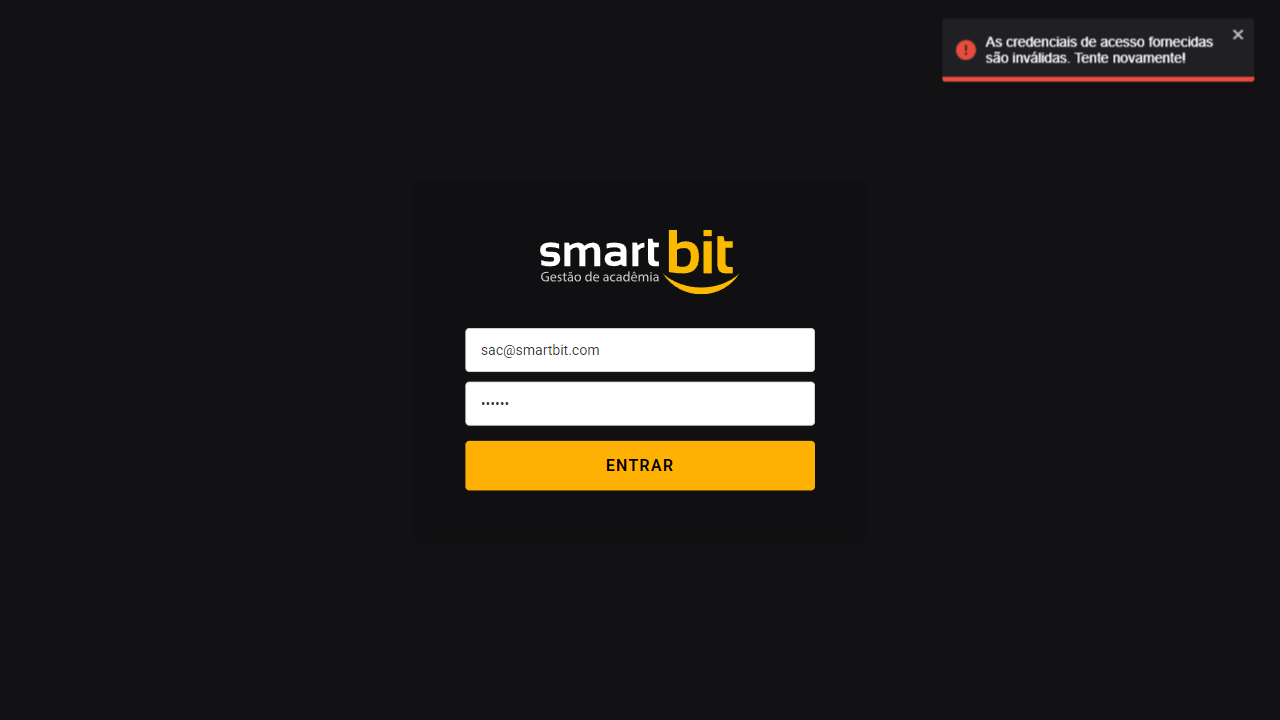
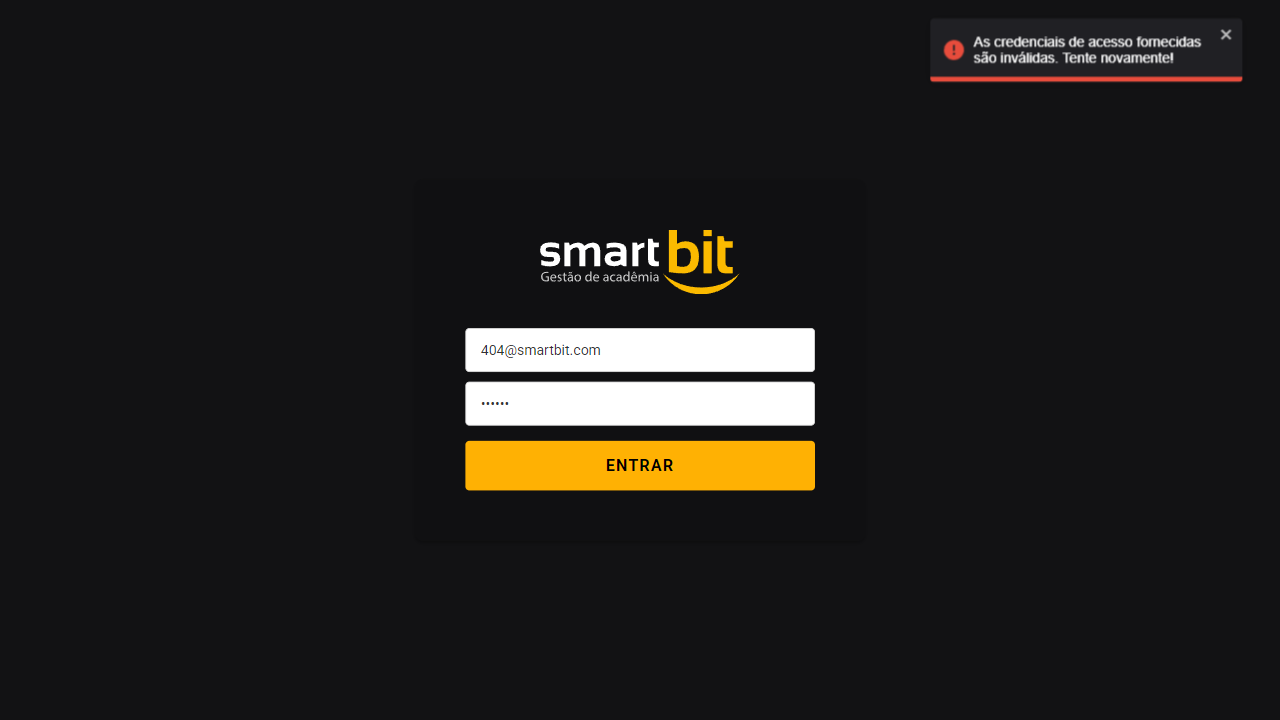
Não deve logar com email não cadastrado

Changed region(s): [[0.7188, 0.0306, 0.9688, 0.0917], [0.375, 0.4583, 0.4688, 0.5194]]

diff --git a/projects/smartbit-robot/logs/log.html b/projects/smartbit-robot/logs/log.html
@@ -2081,25 +2081,25 @@ storage = function () {
 window.output = {};
 </script>
 <script type="text/javascript">
-window.output["suite"] = [1,2,3,4,[],[1,0,5927],[],[[5,0,0,[6],[1,1911,3847],[[1,7,8,0,0,0,0,0,[1,1918,1836],[[0,9,10,0,11,12,0,13,[1,1919,346],[[1920,2,14],[2263,2,15]]],[0,16,10,0,17,18,0,13,[1,2264,1490],[[3754,2,19],[3754,2,20]]]]],[0,21,1,0,0,0,0,0,[1,3755,165],[[0,22,10,0,23,24,0,13,[1,3756,163],[[3919,2,25]]]]],[0,26,1,0,0,27,0,0,[1,3920,185],[[0,28,10,0,29,30,0,31,[1,3921,83],[[3922,2,32]]],[0,28,10,0,29,33,0,31,[1,4005,36],[[4006,2,34]]],[0,35,10,0,36,37,0,31,[1,4041,65],[[4042,2,38]]]]],[0,39,1,0,0,40,0,0,[1,4106,1410],[[0,41,10,0,42,43,0,44,[1,4106,1358],[[5463,2,45]]],[0,46,10,0,47,48,0,49,[1,5464,51],[[5515,2,50]]]]],[2,51,10,0,52,0,0,53,[1,5517,239],[[5756,2,54]]]]]],[],[1,1,0,0]];
+window.output["suite"] = [1,2,3,4,[],[1,0,5715],[],[[5,0,0,[6],[1,1884,3692],[[1,7,8,0,0,0,0,0,[1,1891,1652],[[0,9,10,0,11,12,0,13,[1,1893,380],[[1894,2,14],[2273,2,15]]],[0,16,10,0,17,18,0,13,[1,2274,1269],[[3542,2,19],[3542,2,20]]]]],[0,21,1,0,0,0,0,0,[1,3544,172],[[0,22,10,0,23,24,0,13,[1,3544,172],[[3715,2,25]]]]],[0,26,1,0,0,27,0,0,[1,3717,216],[[0,28,10,0,29,30,0,31,[1,3718,97],[[3719,2,32]]],[0,28,10,0,29,33,0,31,[1,3815,38],[[3816,2,34]]],[0,35,10,0,36,37,0,31,[1,3853,80],[[3854,2,38]]]]],[0,39,1,0,0,40,0,0,[1,3935,1412],[[0,41,10,0,42,43,0,44,[1,3936,1355],[[5291,2,45]]],[0,46,10,0,47,48,0,49,[1,5291,56],[[5347,2,50]]]]],[2,51,10,0,52,0,0,53,[1,5348,228],[[5575,2,54]]]]]],[],[1,1,0,0]];
 </script>
 <script type="text/javascript">
 window.output["strings"] = [];
 </script>
 <script type="text/javascript">
[2 lines of base64/hex data omitted]
 </script>
 <script type="text/javascript">
-window.output["stats"] = [[{"elapsed":"00:00:04","fail":0,"label":"All Tests","pass":1,"skip":0}],[{"elapsed":"00:00:04","fail":0,"label":"inv_pass","pass":1,"skip":0}],[{"elapsed":"00:00:06","fail":0,"id":"s1","label":"Login","name":"Login","pass":1,"skip":0}]];
+window.output["stats"] = [[{"elapsed":"00:00:04","fail":0,"label":"All Tests","pass":1,"skip":0}],[{"elapsed":"00:00:04","fail":0,"label":"email_404","pass":1,"skip":0}],[{"elapsed":"00:00:06","fail":0,"id":"s1","label":"Login","name":"Login","pass":1,"skip":0}]];
 </script>
 <script type="text/javascript">
 window.output["errors"] = [];
 </script>
 <script type="text/javascript">
-window.output["baseMillis"] = 1740603912371;
+window.output["baseMillis"] = 1740604201310;
 </script>
 <script type="text/javascript">
-window.output["generated"] = 5974;
+window.output["generated"] = 5769;
 </script>
 <script type="text/javascript">
 window.output["expand_keywords"] = null;

diff --git a/projects/smartbit-robot/logs/report.html b/projects/smartbit-robot/logs/report.html
@@ -1897,22 +1897,22 @@ storage = function () {
 window.output = {};
 </script>
 <script type="text/javascript">
-window.output["suite"] = [1,2,3,4,[],[1,0,5927],[],[[5,0,0,[6],[1,1911,3847],[]]],[],[1,1,0,0]];
+window.output["suite"] = [1,2,3,4,[],[1,0,5715],[],[[5,0,0,[6],[1,1884,3692],[]]],[],[1,1,0,0]];
 </script>
 <script type="text/javascript">
 window.output["strings"] = [];
 </script>
 <script type="text/javascript">
-window.output["strings"] = window.output["strings"].concat(["*","*Login","*C:\\QAx\\projects\\smartbit-robot\\tests\\login.robot","*../tests/login.robot","*<p>Cenários de testes de login SAC\x3c/p>","*Não deve logar com senha incorreta","*inv_pass"]);
+window.output["strings"] = window.output["strings"].concat(["*","*Login","*C:\\QAx\\projects\\smartbit-robot\\tests\\login.robot","*../tests/login.robot","*<p>Cenários de testes de login SAC\x3c/p>","*Não deve logar com email não cadastrado","*email_404"]);
 </script>
 <script type="text/javascript">
-window.output["stats"] = [[{"elapsed":"00:00:04","fail":0,"label":"All Tests","pass":1,"skip":0}],[{"elapsed":"00:00:04","fail":0,"label":"inv_pass","pass":1,"skip":0}],[{"elapsed":"00:00:06","fail":0,"id":"s1","label":"Login","name":"Login","pass":1,"skip":0}]];
+window.output["stats"] = [[{"elapsed":"00:00:04","fail":0,"label":"All Tests","pass":1,"skip":0}],[{"elapsed":"00:00:04","fail":0,"label":"email_404","pass":1,"skip":0}],[{"elapsed":"00:00:06","fail":0,"id":"s1","label":"Login","name":"Login","pass":1,"skip":0}]];
 </script>
 <script type="text/javascript">
-window.output["baseMillis"] = 1740603912371;
+window.output["baseMillis"] = 1740604201310;
 </script>
 <script type="text/javascript">
-window.output["generated"] = 5974;
+window.output["generated"] = 5769;
 </script>
 <script type="text/javascript">
 window.output["expand_keywords"] = null;
